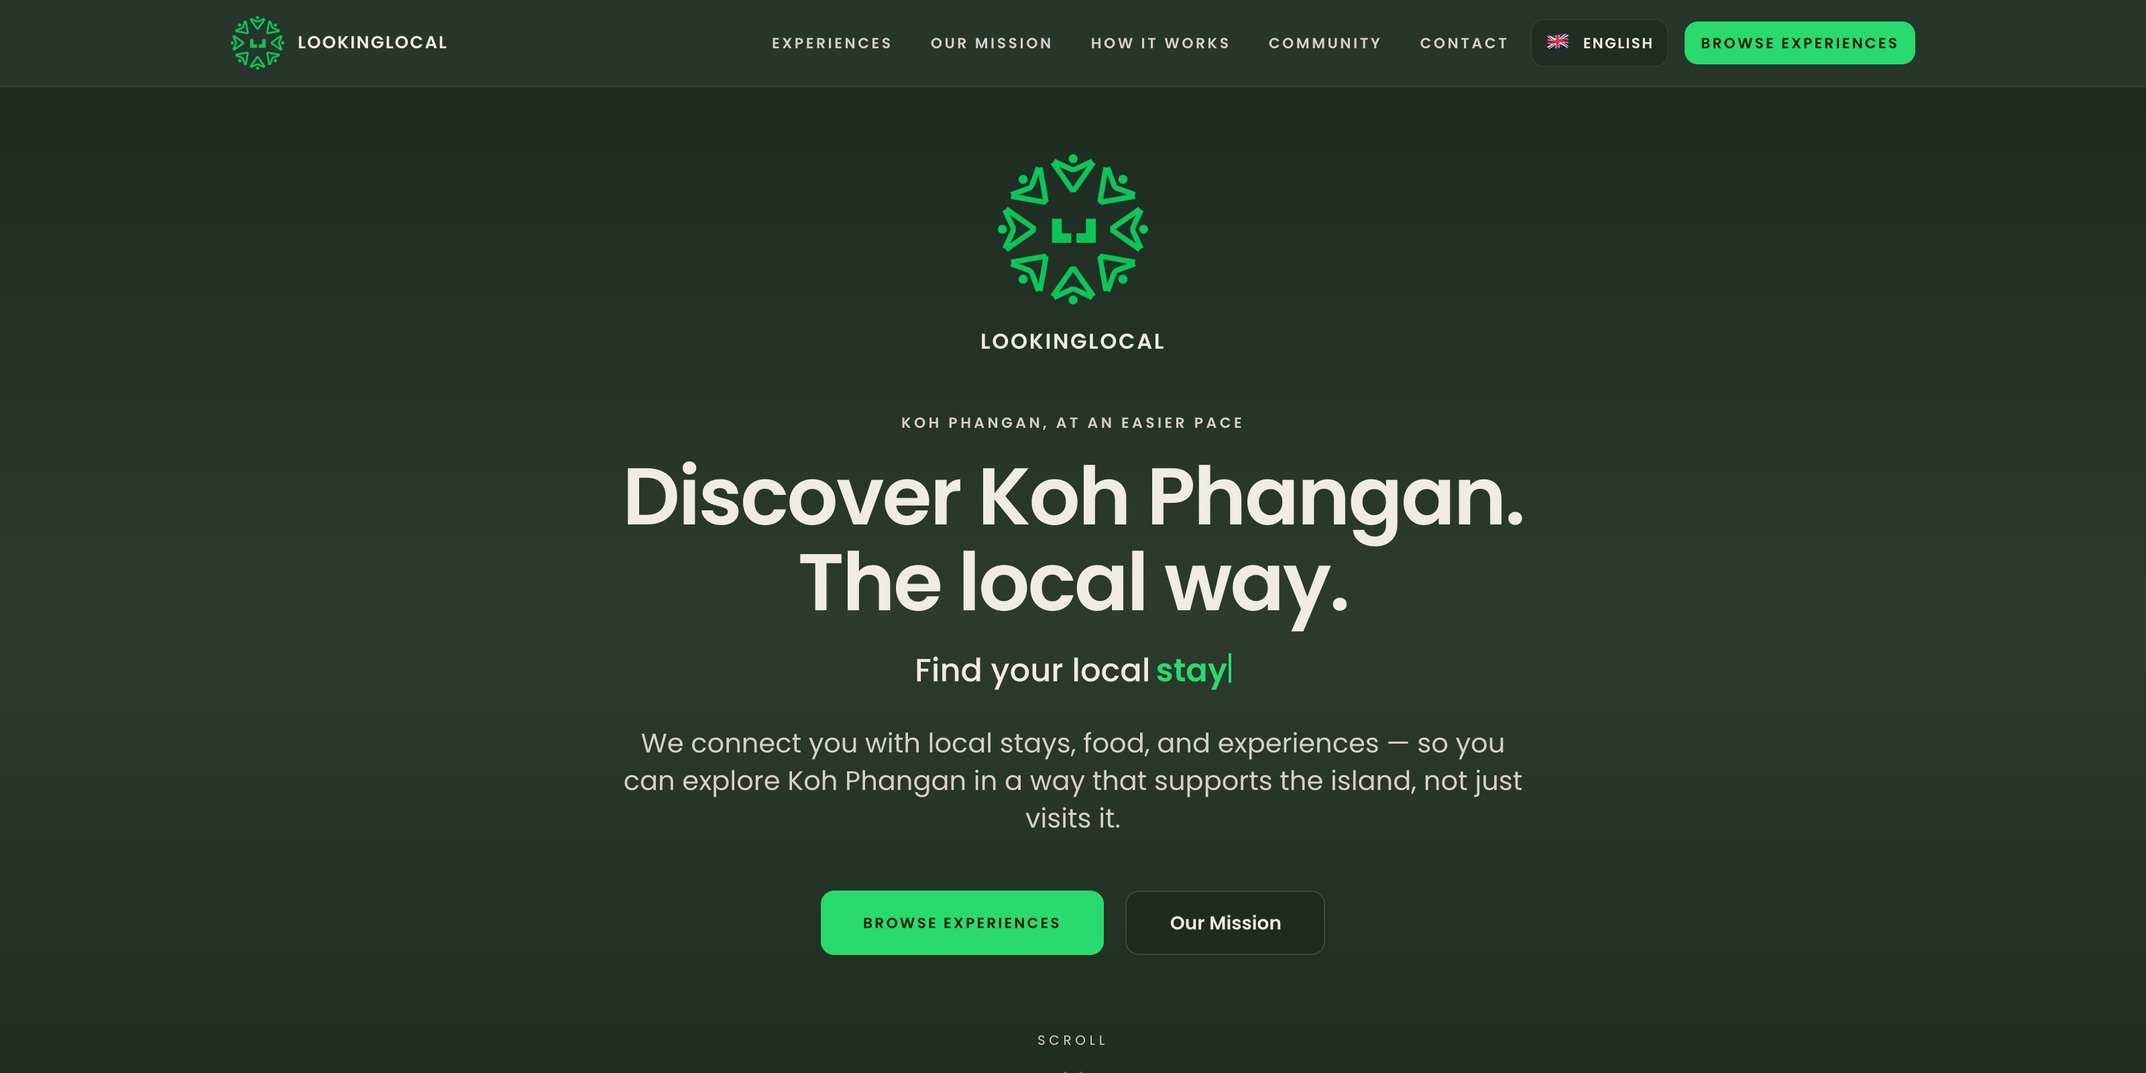
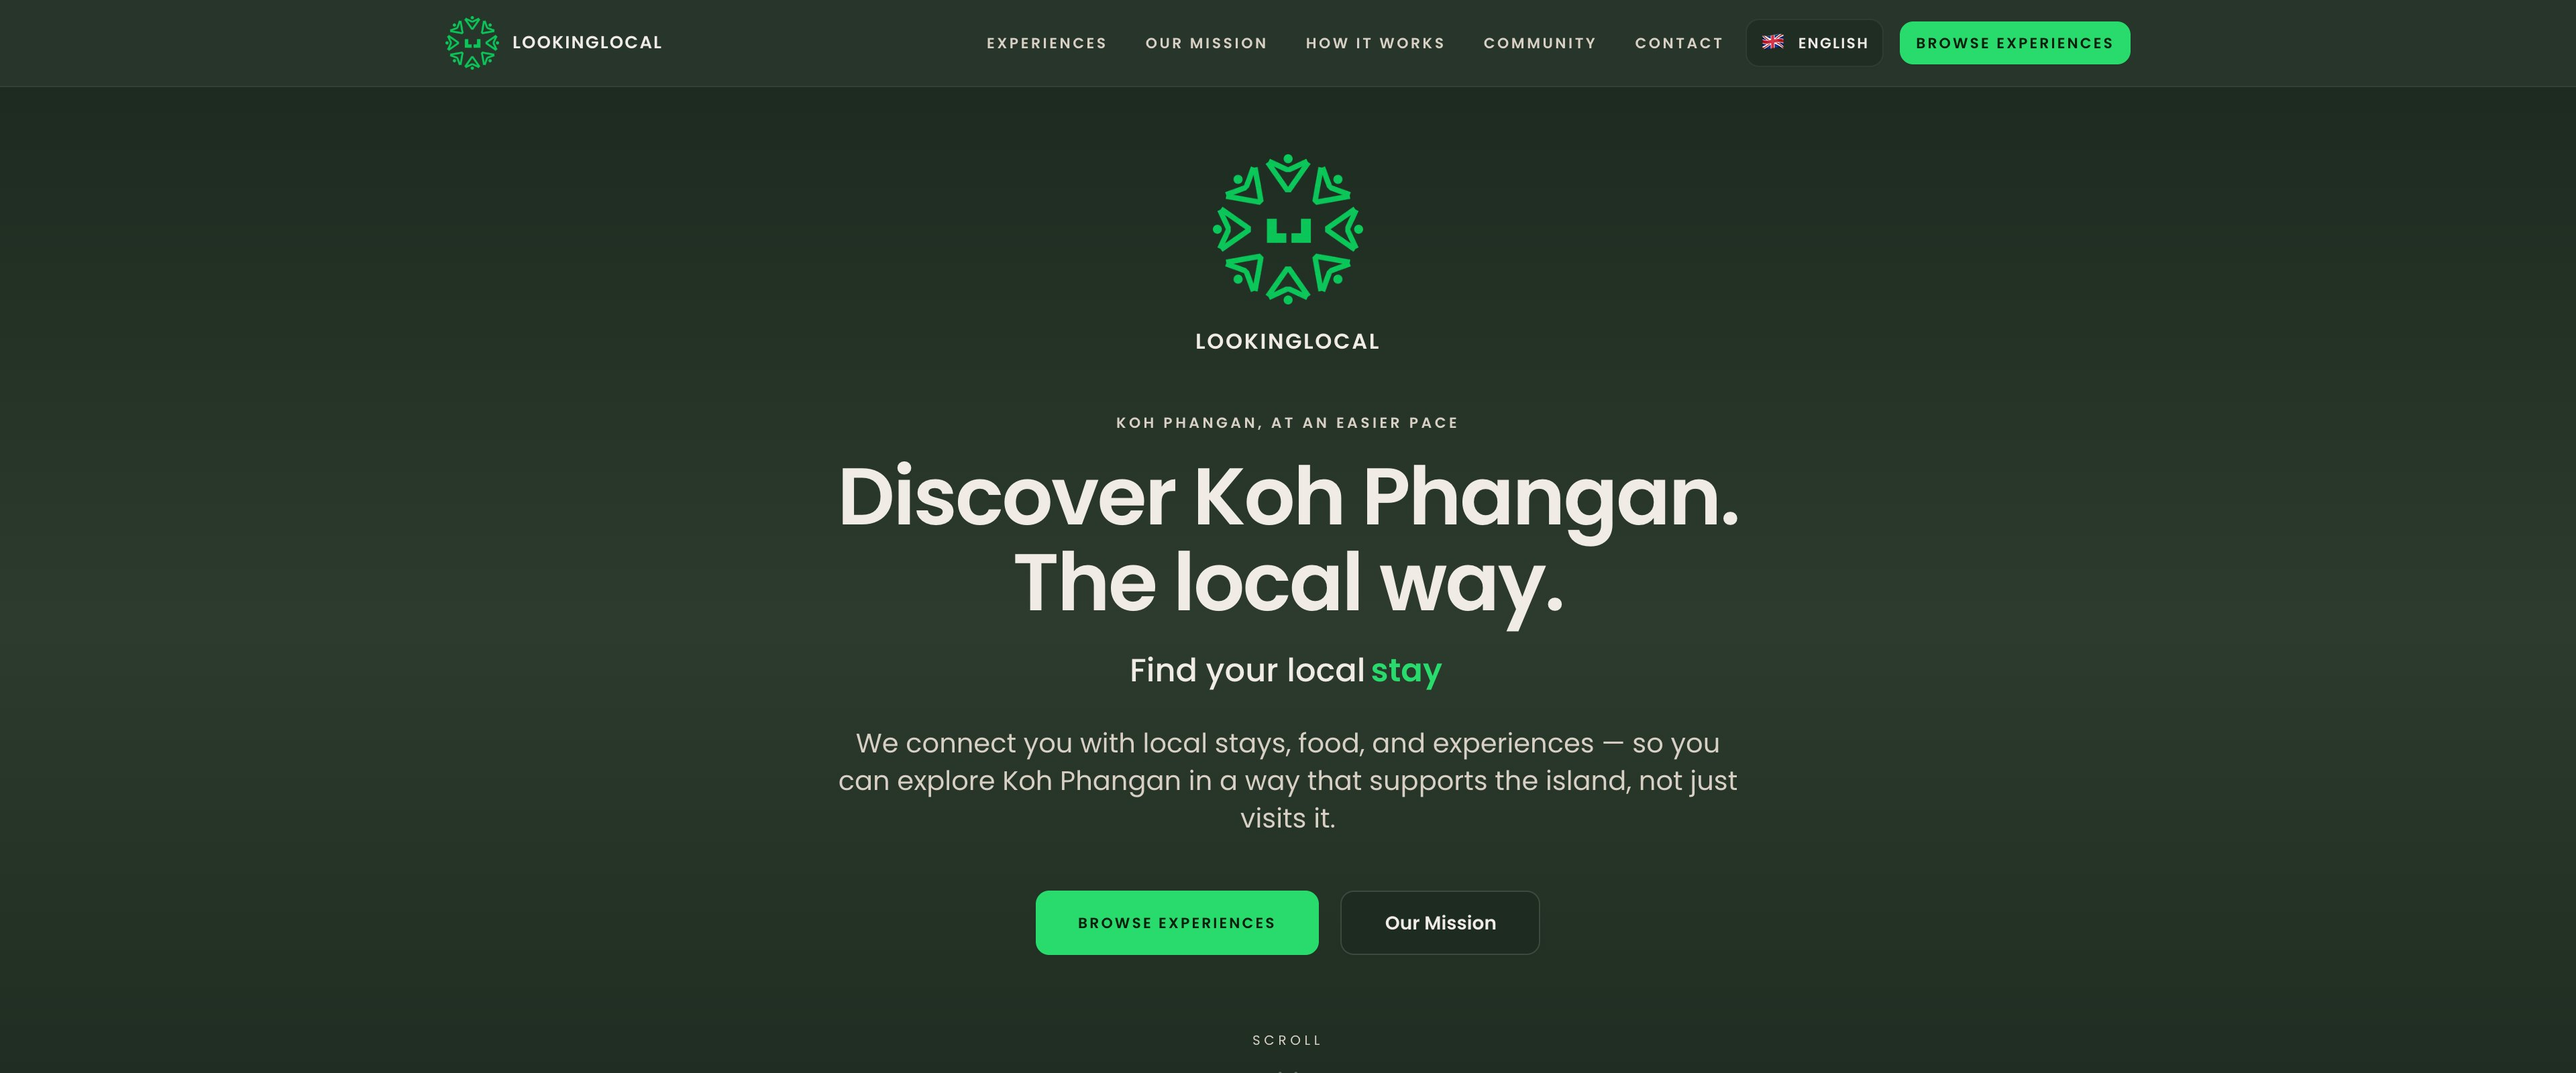
Fill the wide-screen heroes edge to edge.
A 2:1 shot was still taller than the slot once the browser chrome shortened the window, so the wide captures are 1920×800 and the slot covers instead of letterboxing.

diff --git a/src/index.css b/src/index.css
@@ -519,16 +519,16 @@
   }
 }
 
-/* The top capture is never cropped. On a short screen it scales down to fit.
-   Wide windows swap in a 2:1 file, so this clamp does not leave side bars. */
+/* Full width of the slot. Cover crops a little if the file is still taller
+   than the slot, instead of leaving black bars down the sides. */
 .color-screen__shot {
   display: block;
   flex: none;
   width: 100%;
   height: auto;
   max-height: 68%;
-  object-fit: contain;
-  object-position: center;
+  object-fit: cover;
+  object-position: center top;
   background: #050506;
 }
 

diff --git a/src/content/projects.ts b/src/content/projects.ts
@@ -30,7 +30,7 @@ export type Project = {
   href?: string
   /**
    * Full-colour capture of the live product, under /public/projects.
-   * `image` is a 1440×900 viewport. `imageWide` is a 1600×800 viewport, used
+   * `image` is a 1440×900 viewport. `imageWide` is a 1920×800 viewport, used
    * when the window is wide enough that the 16:10 shot would letterbox.
    */
   image?: string
